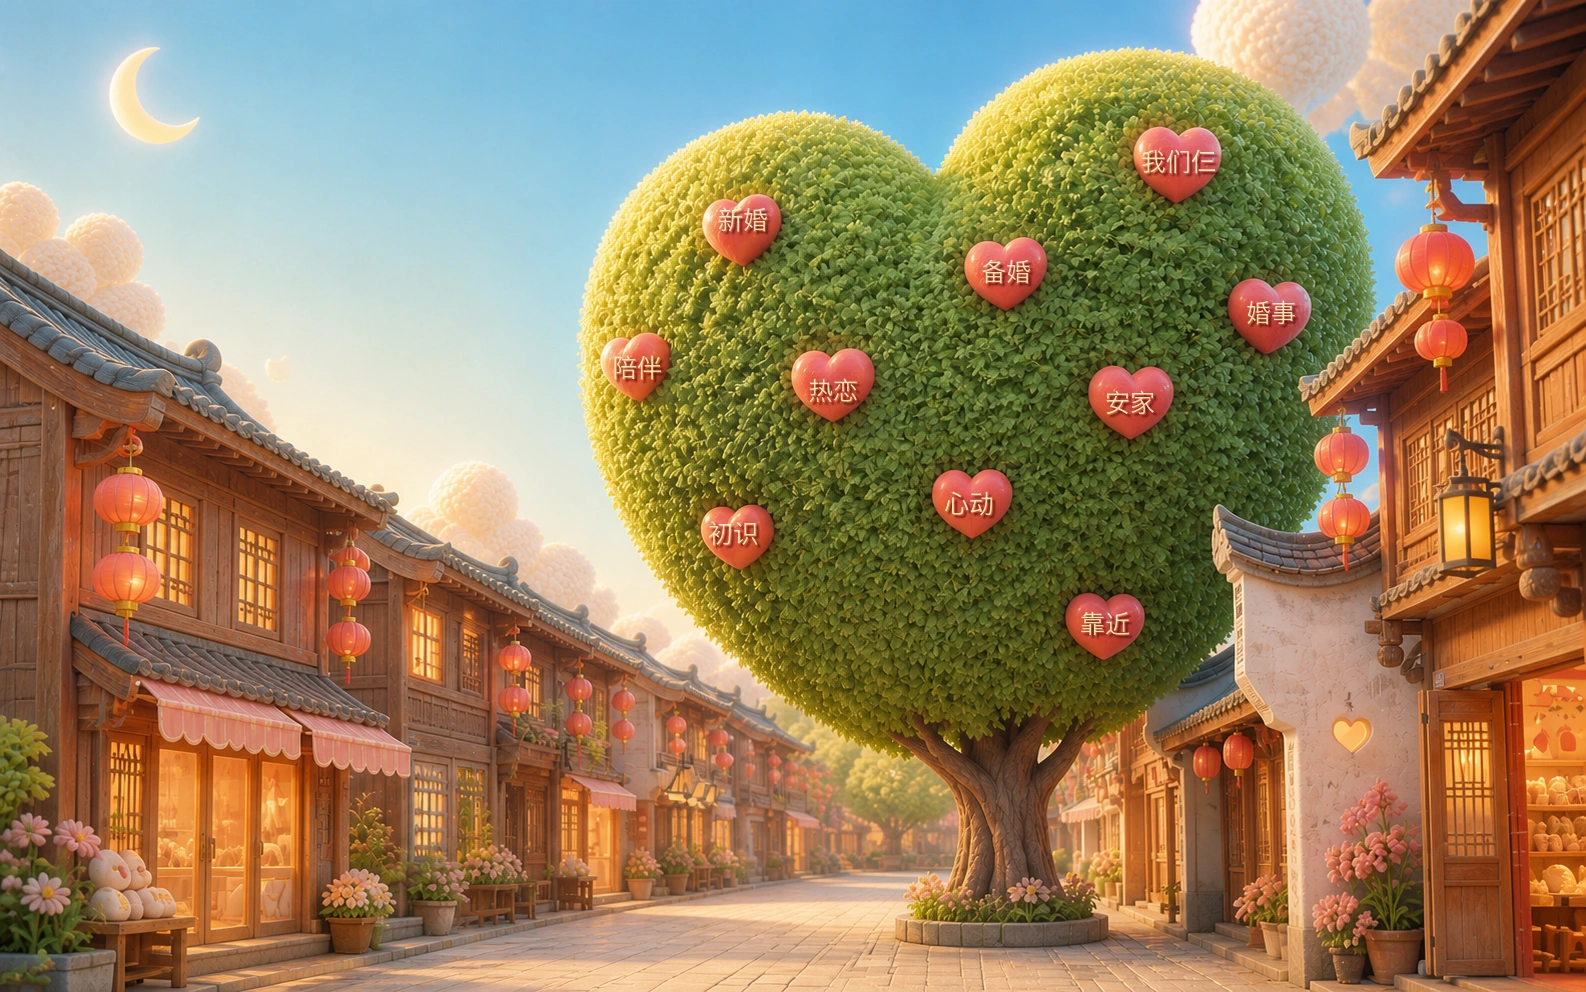
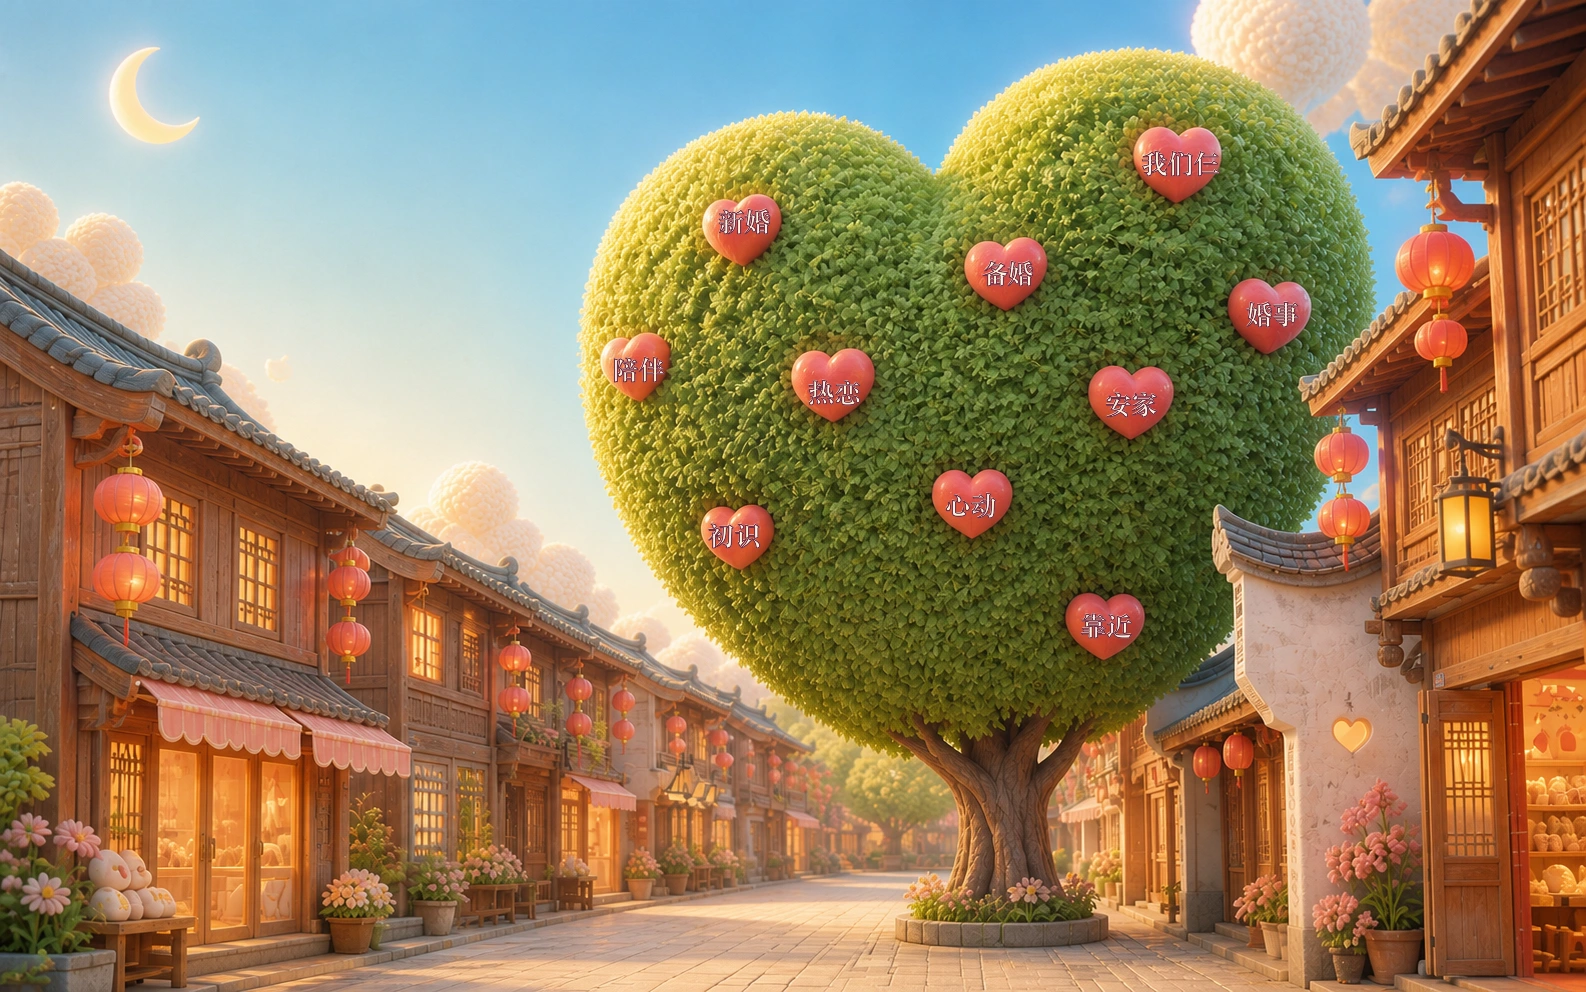
Restore preferred love tree typography

diff --git a/index.html b/index.html
@@ -738,7 +738,7 @@ body{
   width:100vw;max-width:none;margin-left:calc(50% - 50vw);
   justify-content:center;text-align:left;overflow:hidden;
   padding:74px 24px 102px;
-  background:url("assets/scene-art/premium/page-19-love-tree-fixed.webp?v=20260820e") center/cover no-repeat;
+  background:url("assets/scene-art/premium/page-19-love-tree-fixed.webp?v=20260820f") center/cover no-repeat;
 }
 .scene-overview::after{
   content:none;
@@ -8178,7 +8178,7 @@ const PLACES = [
         "assets/img/love-tree-fireworks.webp",
         "assets/img/avatar-me.jpg?v=20260819b",
         "assets/img/avatar-you.jpg?v=20260819b",
-        "assets/scene-art/premium/page-19-love-tree-fixed.webp?v=20260820e",
+        "assets/scene-art/premium/page-19-love-tree-fixed.webp?v=20260820f",
         "assets/scene-art/premium/timeline-summary-bg.webp?v=20260819b",
         "assets/scene-art/premium/ending-story-continues.webp?v=20260819b"
       ];
